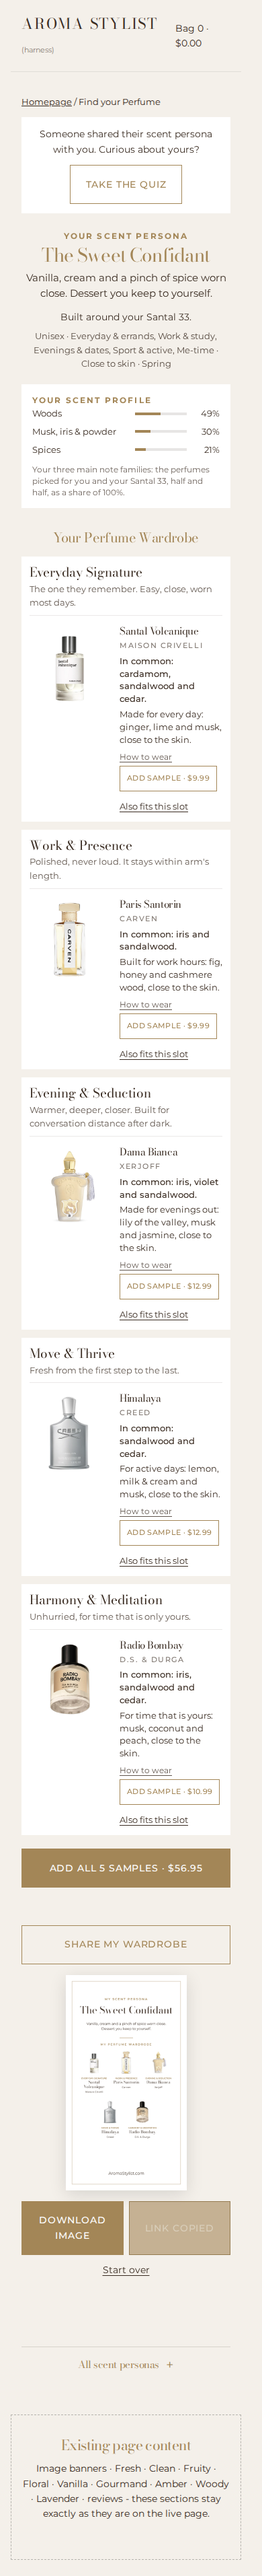
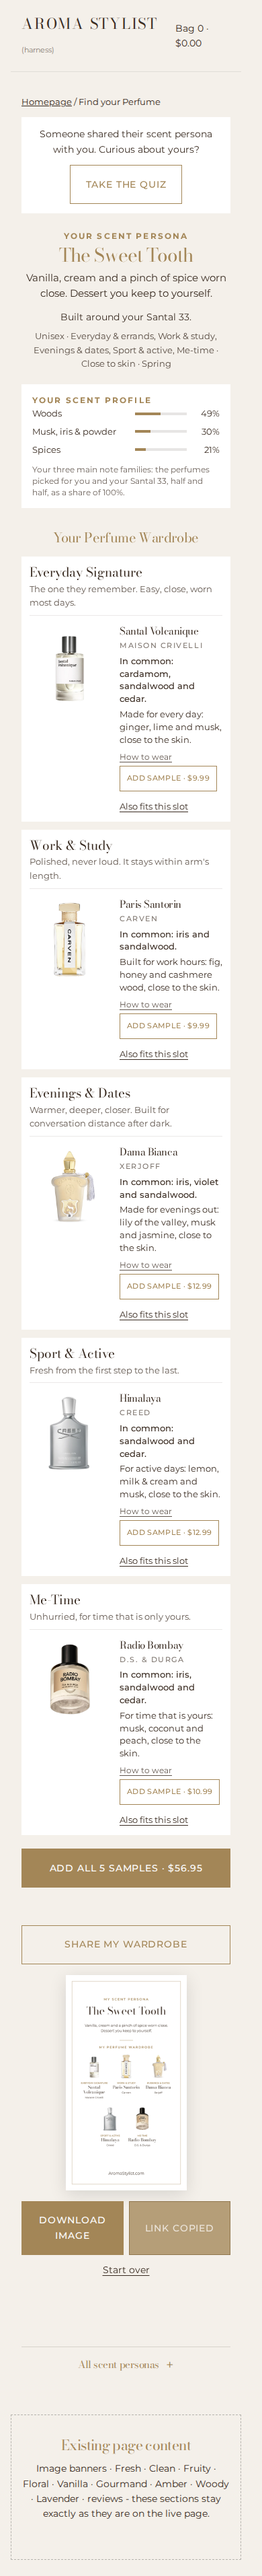
quiz-v3.30: wardrobe card names match the moments; Boardroom Presence, Sweet Tooth
Claude-Session: https://claude.ai/code/session_01LquiwJicLuJGRDFxJ3K21r

Changed region(s): [[0.3385, 0.7772, 0.8923, 0.9015], [0.6769, 0.0933, 0.7077, 0.1243]]

diff --git a/harness/index.html b/harness/index.html
@@ -106,7 +106,7 @@
             <h3>The Sharp Edit</h3>
             <p>Crisp aromatics over dry cedar. The scent of someone who answers emails in full sentences.</p>
           </li><li data-sq-persona="boardroom-pull" data-shopify-editor-block='{"id":"p_boardroom_pull"}'>
-            <h3>The Boardroom Pull</h3>
+            <h3>The Boardroom Presence</h3>
             <p>Structured woods and cold spice with a trail that says the meeting starts when you sit down.</p>
           </li><li data-sq-persona="skin-secret" data-shopify-editor-block='{"id":"p_skin_secret"}'>
             <h3>The Skin Secret</h3>
@@ -118,7 +118,7 @@
             <h3>The After-Hours Magnet</h3>
             <p>Oud, amber and velvet florals that own the room after dark. Heads turn and nobody can say why.</p>
           </li><li data-sq-persona="sweet-confidant" data-shopify-editor-block='{"id":"p_sweet_confidant"}'>
-            <h3>The Sweet Confidant</h3>
+            <h3>The Sweet Tooth</h3>
             <p>Vanilla, cream and a pinch of spice worn close. Dessert you keep to yourself.</p>
           </li><li data-sq-persona="golden-hour-guest" data-shopify-editor-block='{"id":"p_golden_hour_guest"}'>
             <h3>The Golden Hour Guest</h3>

diff --git a/STATUS.md b/STATUS.md
@@ -1,13 +1,13 @@
 # Where we are (resume here)
 
-Last saved: 2026-10-02, version **quiz-v3.29**, branch `quiz-v3` (pushed to GitHub).
+Last saved: 2026-10-02, version **quiz-v3.30**, branch `quiz-v3` (pushed to GitHub).
 
 ## Preview
 
 - Theme copy (unpublished): **"Xtra – scent quiz (copy of live, 2026-09-30)"**, id `189533225240`.
 - Link: https://aromastylist.com/pages/find-your-perfume?preview_theme_id=189533225240
 - The live theme and the rest of the site are untouched. The owner publishes herself.
-- The copy holds exactly the repo files of v3.29, checked by md5 on 2026-10-02: 96 files from `theme-files/`
+- The copy holds exactly the repo files of v3.30, checked by md5 on 2026-10-02: 96 files from `theme-files/`
   (sections, js, css, two JSON files, 59 bottle images, 22 owner icons, 18 style photos (men's, women's, Unisex couples)) plus `templates/page.find-your-perfume.json` =
   `docs/theme-copy/page.find-your-perfume.json`.
 - The second copy "Home Journal" (`189529096472`) still has an old version; update it only if asked.
@@ -27,8 +27,7 @@ Details per version: `CHANGELOG.md`.
 
 ## Next
 
-0. Card style unified on all icon screens (v3.27). Open from the full pass: result names
-   (persona frequency skew, three wardrobe card names differ from the moments).
+0. Card style unified on all icon screens (v3.27). Open from the full pass: persona frequency skew (next: v3.31).
 1. Result screen: v3.13 done (built-around line, answer summary + Change answers, short cards, compact buttons).
    Waiting for the owner's look on her phone.
 2. Owner icons in place (v3.15): screen 1, feelings, moments, What matters. Still to come: avoid-screen and

diff --git a/theme-files/INSTALL.md b/theme-files/INSTALL.md
@@ -87,7 +87,7 @@ Open `/pages/find-your-perfume?preview_theme_id=<copy id>`:
 4. Taboos: tick `Coconut`; after Work & study tick `My workplace or classroom prefers subtle scents`. Moments: Work & study, Evenings & dates, Everyday & errands.
    How: A full wardrobe. Finish the remaining screens.
 5. Result **Your Perfume Wardrobe**: persona, "Your scent profile" (3 families with %), one card per slot with
-   Work & Presence and Evening & Seduction first, each card with "Shares the … of your …", a why-line, "How to wear",
+   Work & Study and Evenings & Dates first, each card with "Shares the … of your …", a why-line, "How to wear",
    "Add sample · $…" and a collapsed "Also fits this slot". No two cards the same, at least 2 houses.
 6. "Share my wardrobe" shows a 9:16 image (persona, slot names, perfumes, `aromastylist.com/pages/find-your-perfume`).
    "Copy link" gives a link that **still contains `preview_theme_id`** and reopens the same result.

diff --git a/CHANGELOG.md b/CHANGELOG.md
@@ -1,5 +1,14 @@
 # Changelog
 
+## quiz-v3.30 (2026-10-02) — wardrobe card names match the moments; two persona names
+
+- Wardrobe cards: Work & Study, Evenings & Dates, Home & Family, Sport & Active, Me-Time (were Work & Presence,
+  Evening & Seduction, Relax & Wind Down, Move & Thrive, Harmony & Meditation). Everyday Signature and Special
+  Occasions stay. Store collections are untouched.
+- Personas: The Boardroom Pull -> **The Boardroom Presence**, The Sweet Confidant -> **The Sweet Tooth**.
+- Changed theme files: `assets/scent-quiz-aromastylist.json`, `templates/aromastylist.scent-quiz.section.json`
+  (persona block names, which override the config) -> `templates/page.find-your-perfume.json`. e2e 134 / 134.
+
 ## quiz-v3.29 (2026-10-02) — sub-step counter, compact "How noticeable" on desktop
 
 - The notes sub-step (after "I don't have one") reads "2b / 10" and its progress bar sits half a step further, so
